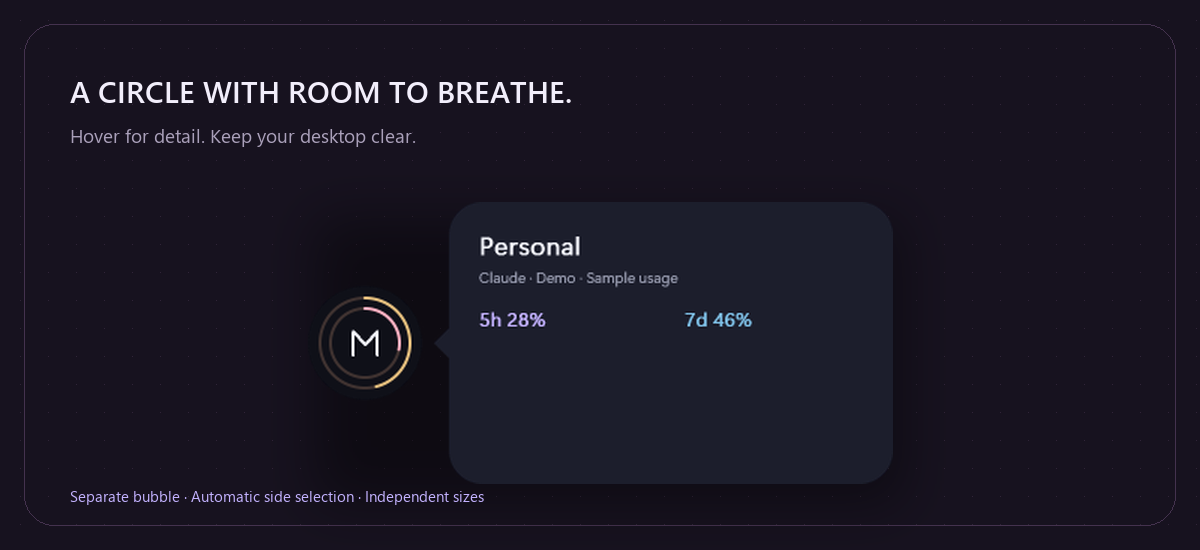
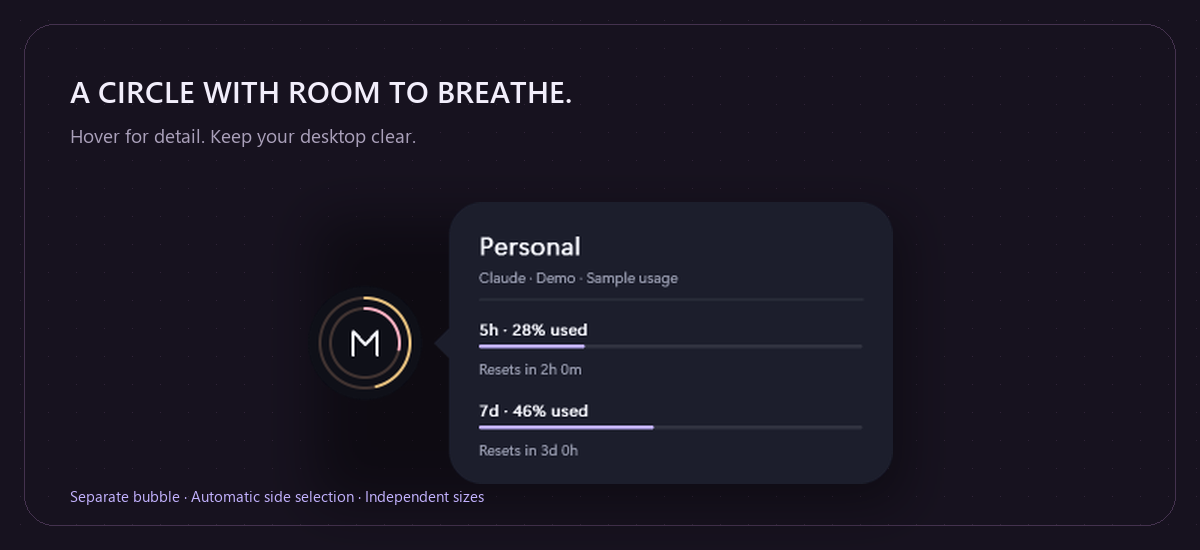
Polish ring interpolation and detailed hover documentation previews

Changed region(s): [[0.4008, 0.7109, 0.555, 0.8345], [0.4008, 0.5564, 0.4933, 0.68], [0.555, 0.5564, 0.6475, 0.6182]]

diff --git a/src/main.rs b/src/main.rs
@@ -1371,7 +1371,7 @@ mod island {
                     123,
                     12,
                     400,
-                    "Independent sizes · saved on this device",
+                    "Independent sizes · scroll for hover cards & alerts",
                     muted(),
                     372,
                 );
@@ -1427,7 +1427,7 @@ mod island {
                         false,
                     );
                 }
-                text(dc, 24, 604, 12, 600, "Floating appearance", white(), 372);
+
                 button(
                     dc,
                     s,
@@ -2464,6 +2464,7 @@ mod island {
             s.transition = 1.;
             s.reveal = 1.;
             s.bubble_detail = 1.;
+            s.settings.bubble_density = 2;
             match name{
                 "preferences"=>s.view=View::Preferences,
                 "remove-account"=>s.view=View::Remove(0,"Personal".into()),
@@ -3454,6 +3455,7 @@ mod island {
                 if s.open || !s.settings.circle || s.drag || s.down.is_some() {
                     s.peek = false;
                 }
+                let old_rings = (s.ring_session, s.ring_weekly);
                 let usage = s
                     .active
                     .and_then(|i| s.settings.accounts.get(i))
@@ -3473,7 +3475,11 @@ mod island {
                             target
                         } else {
                             let old = display.unwrap_or(target);
-                            old + (target - old) * (dt as f64 * 8.).min(1.)
+                            if (target - old).abs() < 0.05 {
+                                target
+                            } else {
+                                old + (target - old) * (dt as f64 * 8.).min(1.)
+                            }
                         }
                     });
                 }
@@ -3574,7 +3580,8 @@ mod island {
                 }
                 let hover_changed = animate_hover(s, dt);
                 constrain(s);
-                let mut changed = s.toast_until > t
+                let mut changed = old_rings != (s.ring_session, s.ring_weekly)
+                    || s.toast_until > t
                     || s.pulse_until > t
                     || s.peek
                     || matches!(s.view, View::AutoSwitch(_))
